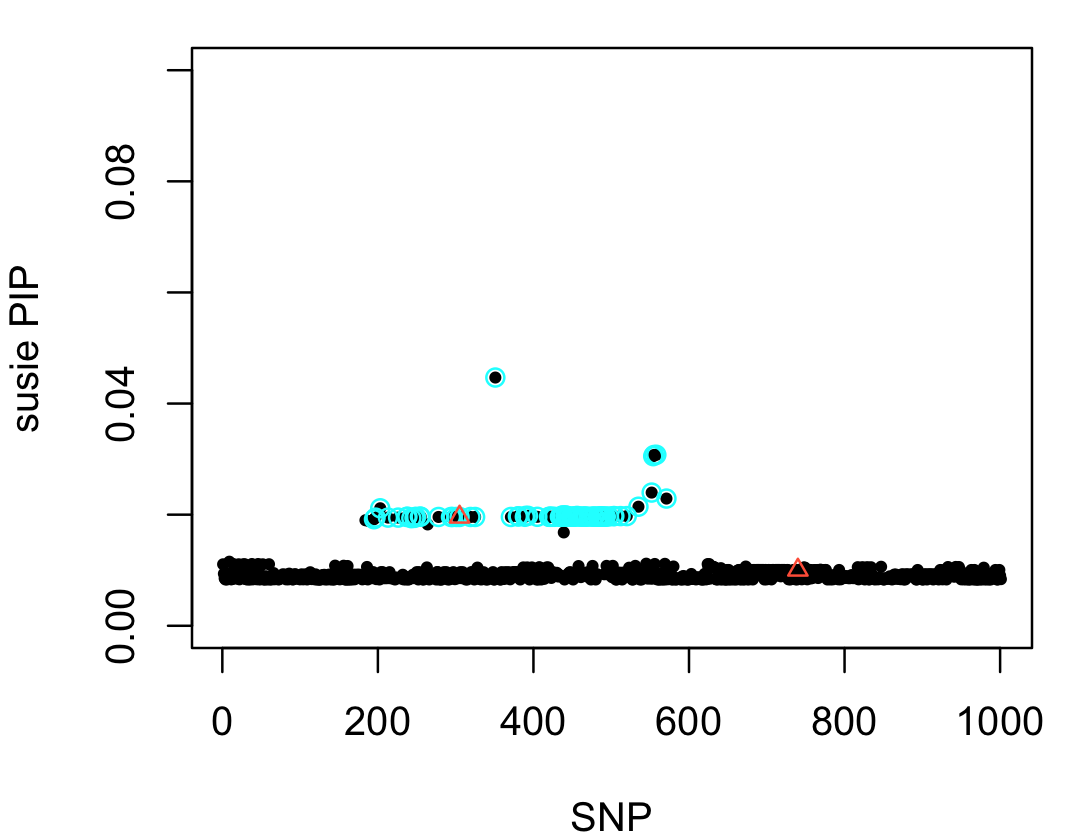
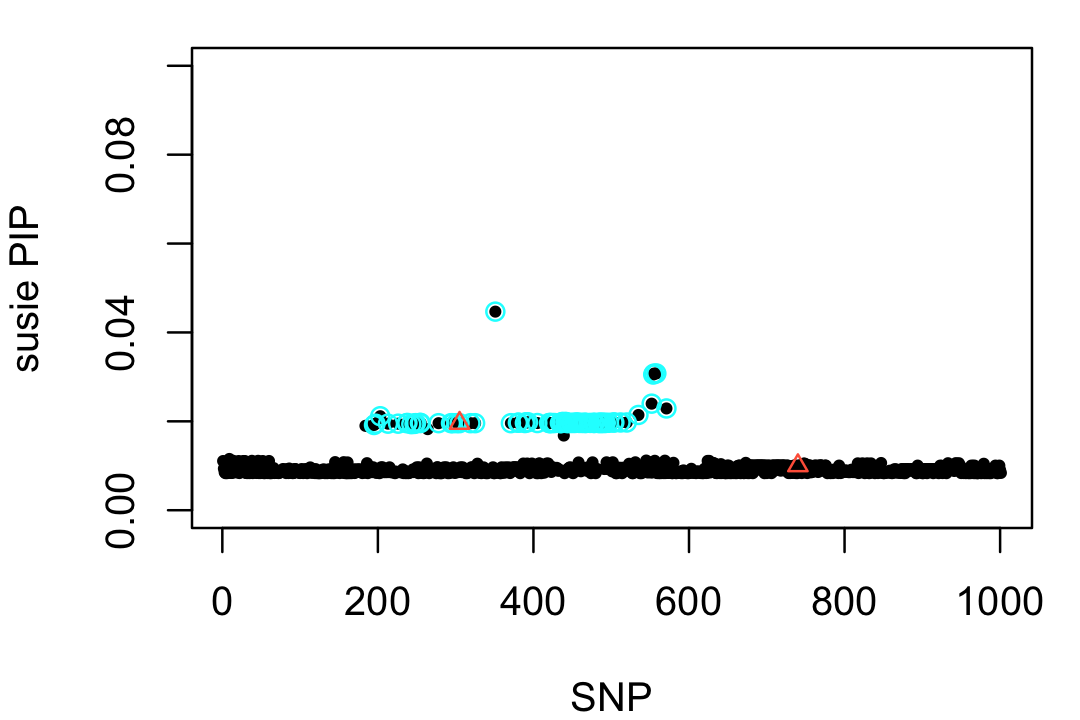
Adjusted plot dims slightly.

diff --git a/docs/large_effect.html b/docs/large_effect.html
@@ -431,15 +431,15 @@ project makes it easier to run your code on other machines.</p>
 <div class="panel panel-default">
 <div class="panel-heading">
 <p class="panel-title">
-<a data-toggle="collapse" data-parent="#workflowr-checks" href="#strongRepositoryversionstrongahrefhttpsgithubcomstephenslabfinemaptree2c327c826cad7e1720f9354ae293d305d4cc319atargetblank2c327c8a">
+<a data-toggle="collapse" data-parent="#workflowr-checks" href="#strongRepositoryversionstrongahrefhttpsgithubcomstephenslabfinemaptree9dc1f67b5012476fdf01e5d1346365806f5d557ctargetblank9dc1f67a">
 <span class="glyphicon glyphicon-ok text-success"
 aria-hidden="true"></span> <strong>Repository version:</strong>
-<a href="https://github.com/stephenslab/finemap/tree/2c327c826cad7e1720f9354ae293d305d4cc319a" target="_blank">2c327c8</a>
+<a href="https://github.com/stephenslab/finemap/tree/9dc1f67b5012476fdf01e5d1346365806f5d557c" target="_blank">9dc1f67</a>
 </a>
 </p>
 </div>
 <div
[2 lines of base64/hex data omitted]
 class="panel-collapse collapse">
 <div class="panel-body">
 <p>
@@ -449,7 +449,7 @@ reproducibility.
 </p>
 <p>
 The results in this page were generated with repository version
-<a href="https://github.com/stephenslab/finemap/tree/2c327c826cad7e1720f9354ae293d305d4cc319a" target="_blank">2c327c8</a>.
+<a href="https://github.com/stephenslab/finemap/tree/9dc1f67b5012476fdf01e5d1346365806f5d557c" target="_blank">9dc1f67</a>.
 See the <em>Past versions</em> tab to see a history of the changes made
 to the R Markdown and HTML files.
 </p>
@@ -508,6 +508,40 @@ Message
 </tr>
 </thead>
 <tbody>
+<tr>
+<td>
+Rmd
+</td>
+<td>
+<a href="https://github.com/stephenslab/finemap/blob/9dc1f67b5012476fdf01e5d1346365806f5d557c/analysis/large_effect.Rmd" target="_blank">9dc1f67</a>
+</td>
+<td>
+Peter Carbonetto
+</td>
+<td>
+2022-06-09
+</td>
+<td>
+workflowr::wflow_publish("large_effect.Rmd", verbose = TRUE)
+</td>
+</tr>
+<tr>
+<td>
+html
+</td>
+<td>
+<a href="https://rawcdn.githack.com/stephenslab/finemap/37627a79ca9fa6005c154dd5592d5519e78a046b/docs/large_effect.html" target="_blank">37627a7</a>
+</td>
+<td>
+Peter Carbonetto
+</td>
+<td>
+2022-06-09
+</td>
+<td>
+Added susie-rss fit using out-of-sample LD.
+</td>
+</tr>
 <tr>
 <td>
 Rmd
@@ -802,6 +836,43 @@ plot(1:1001,fit1$pip,pch = 20,cex = 0.8,ylim = c(0,0.1),
 points(cs1,fit1$pip[cs1],pch = 1,cex = 1,col = &quot;cyan&quot;)
 points(vars,fit1$pip[vars],pch = 2,cex = 0.8,col = &quot;tomato&quot;)</code></pre>
 <p><img src="figure/large_effect.Rmd/susie-in-3-1.png" width="540" style="display: block; margin: auto;" /></p>
+<p>
+<button type="button" class="btn btn-default btn-xs btn-workflowr btn-workflowr-fig" data-toggle="collapse" data-target="#fig-susie-in-3-1">
+Past versions of susie-in-3-1.png
+</button>
+</p>
+<div id="fig-susie-in-3-1" class="collapse">
+<div class="table-responsive">
+<table class="table table-condensed table-hover">
+<thead>
+<tr>
+<th>
+Version
+</th>
+<th>
+Author
+</th>
+<th>
+Date
+</th>
+</tr>
+</thead>
+<tbody>
+<tr>
+<td>
+<a href="https://github.com/stephenslab/finemap/blob/37627a79ca9fa6005c154dd5592d5519e78a046b/docs/figure/large_effect.Rmd/susie-in-3-1.png" target="_blank">37627a7</a>
+</td>
+<td>
+Peter Carbonetto
+</td>
+<td>
+2022-06-09
+</td>
+</tr>
+</tbody>
+</table>
+</div>
+</div>
 <p>Now let’s try running FINEMAP on these same data:</p>
 <pre class="r"><code>p   &lt;- length(b)
 dat &lt;- data.frame(rsid       = 1:p,
@@ -849,6 +920,43 @@ plot(1:1001,fit2$pip,pch = 20,cex = 0.8,ylim = c(0,0.1),
 points(cs1,fit2$pip[cs1],pch = 1,cex = 1,col = &quot;cyan&quot;)
 points(vars,fit2$pip[vars],pch = 2,cex = 0.8,col = &quot;tomato&quot;)</code></pre>
 <p><img src="figure/large_effect.Rmd/susie-out-3-1.png" width="540" style="display: block; margin: auto;" /></p>
+<p>
+<button type="button" class="btn btn-default btn-xs btn-workflowr btn-workflowr-fig" data-toggle="collapse" data-target="#fig-susie-out-3-1">
+Past versions of susie-out-3-1.png
+</button>
+</p>
+<div id="fig-susie-out-3-1" class="collapse">
+<div class="table-responsive">
+<table class="table table-condensed table-hover">
+<thead>
+<tr>
+<th>
+Version
+</th>
+<th>
+Author
+</th>
+<th>
+Date
+</th>
+</tr>
+</thead>
+<tbody>
+<tr>
+<td>
+<a href="https://github.com/stephenslab/finemap/blob/37627a79ca9fa6005c154dd5592d5519e78a046b/docs/figure/large_effect.Rmd/susie-out-3-1.png" target="_blank">37627a7</a>
+</td>
+<td>
+Peter Carbonetto
+</td>
+<td>
+2022-06-09
+</td>
+</tr>
+</tbody>
+</table>
+</div>
+</div>
 <br>
 <p>
 <button type="button" class="btn btn-default btn-workflowr btn-workflowr-sessioninfo" data-toggle="collapse" data-target="#workflowr-sessioninfo" style="display: block;">
